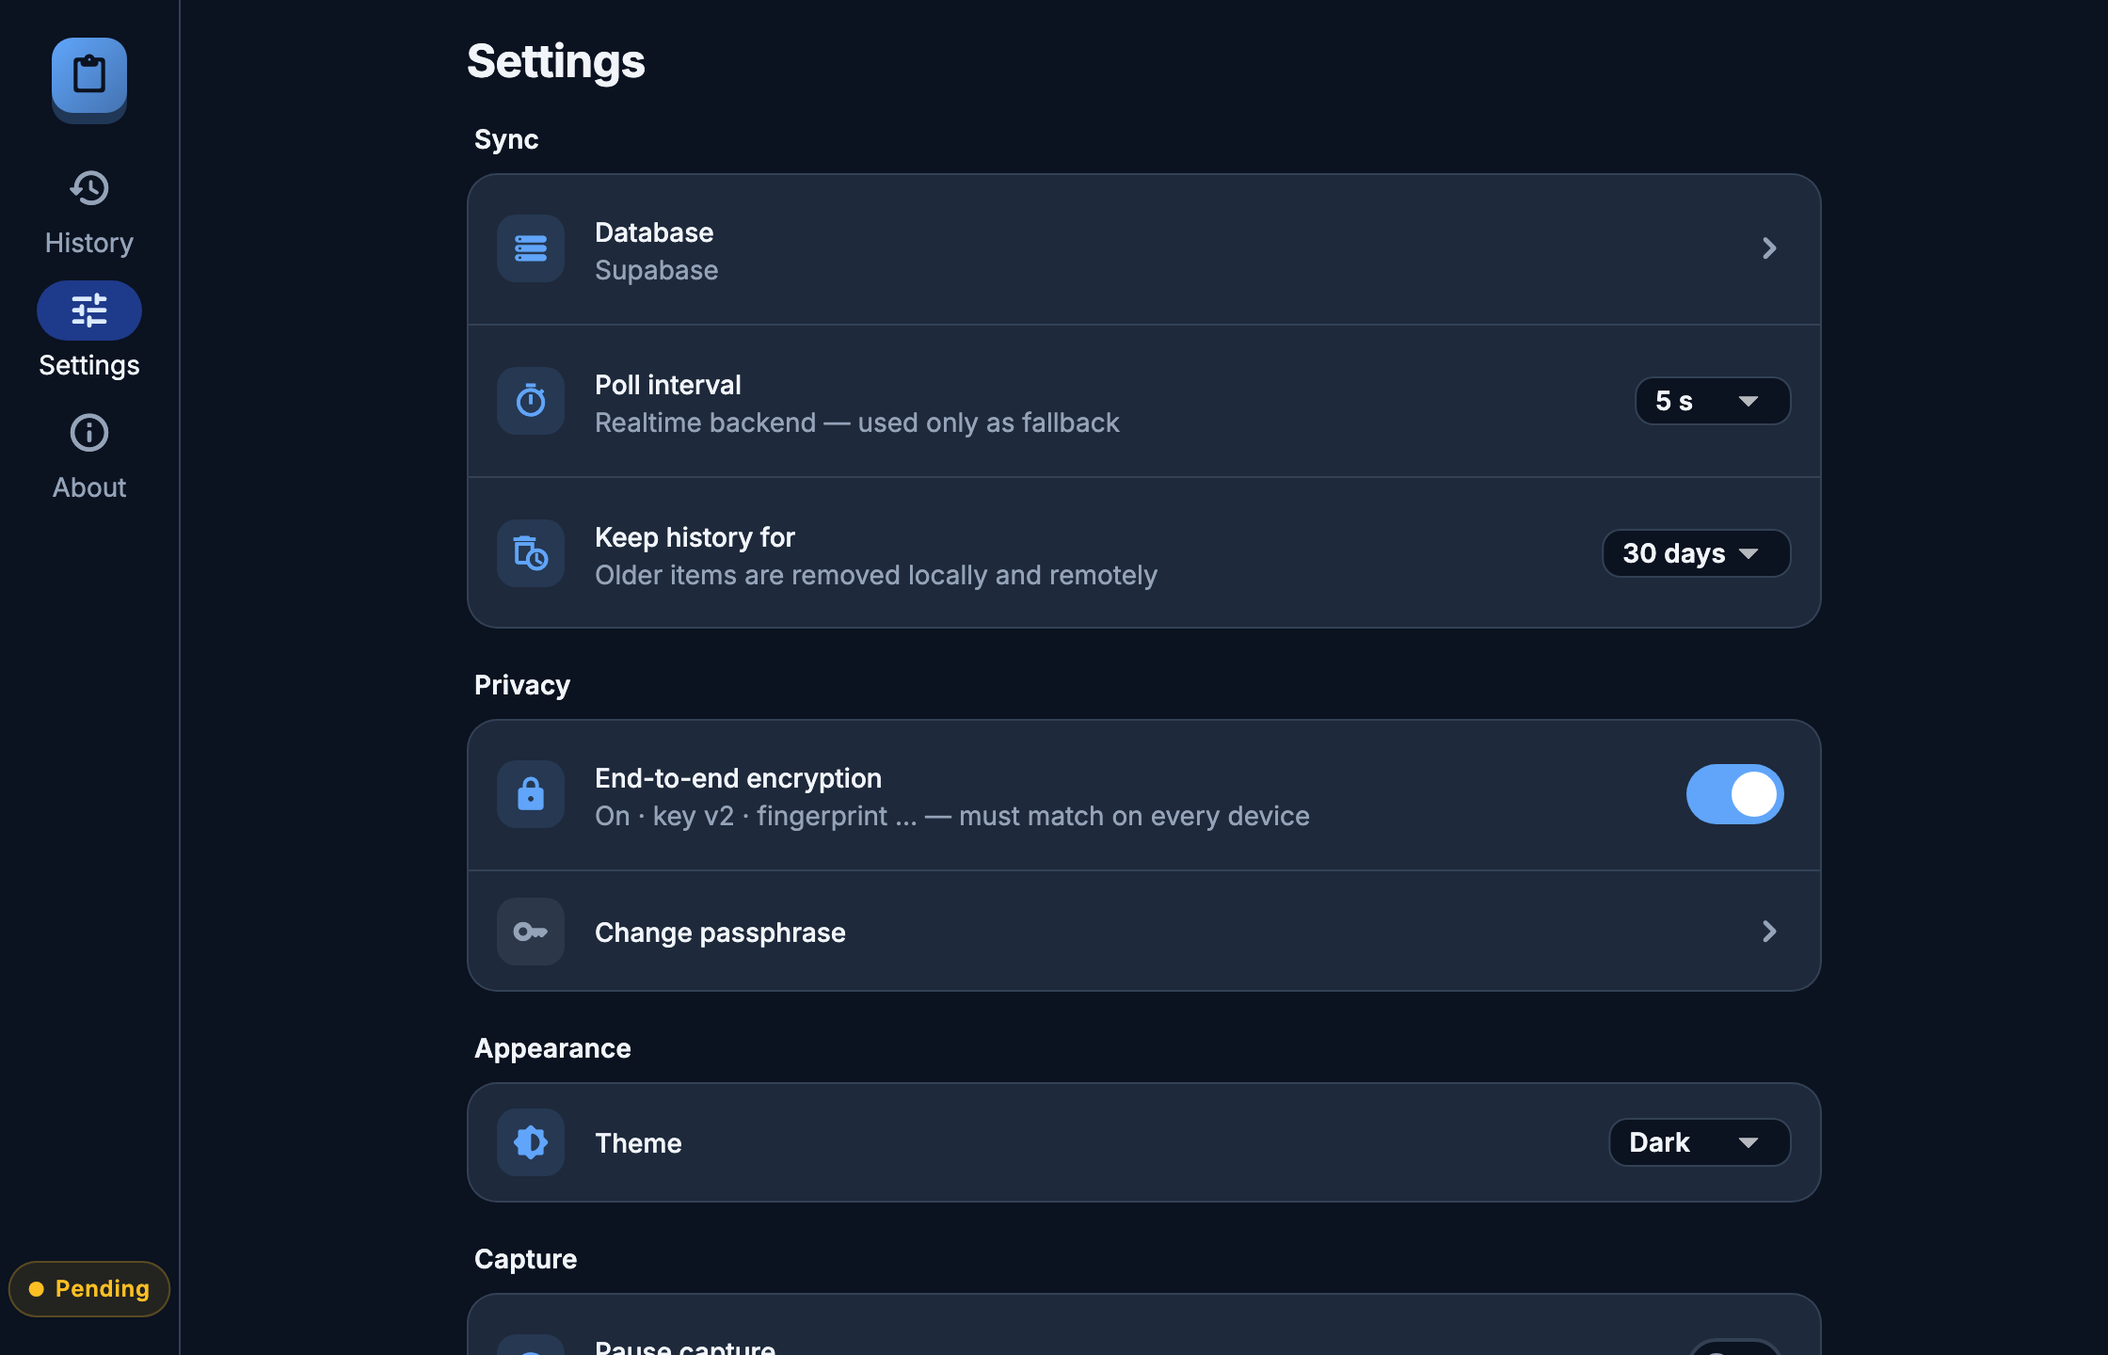
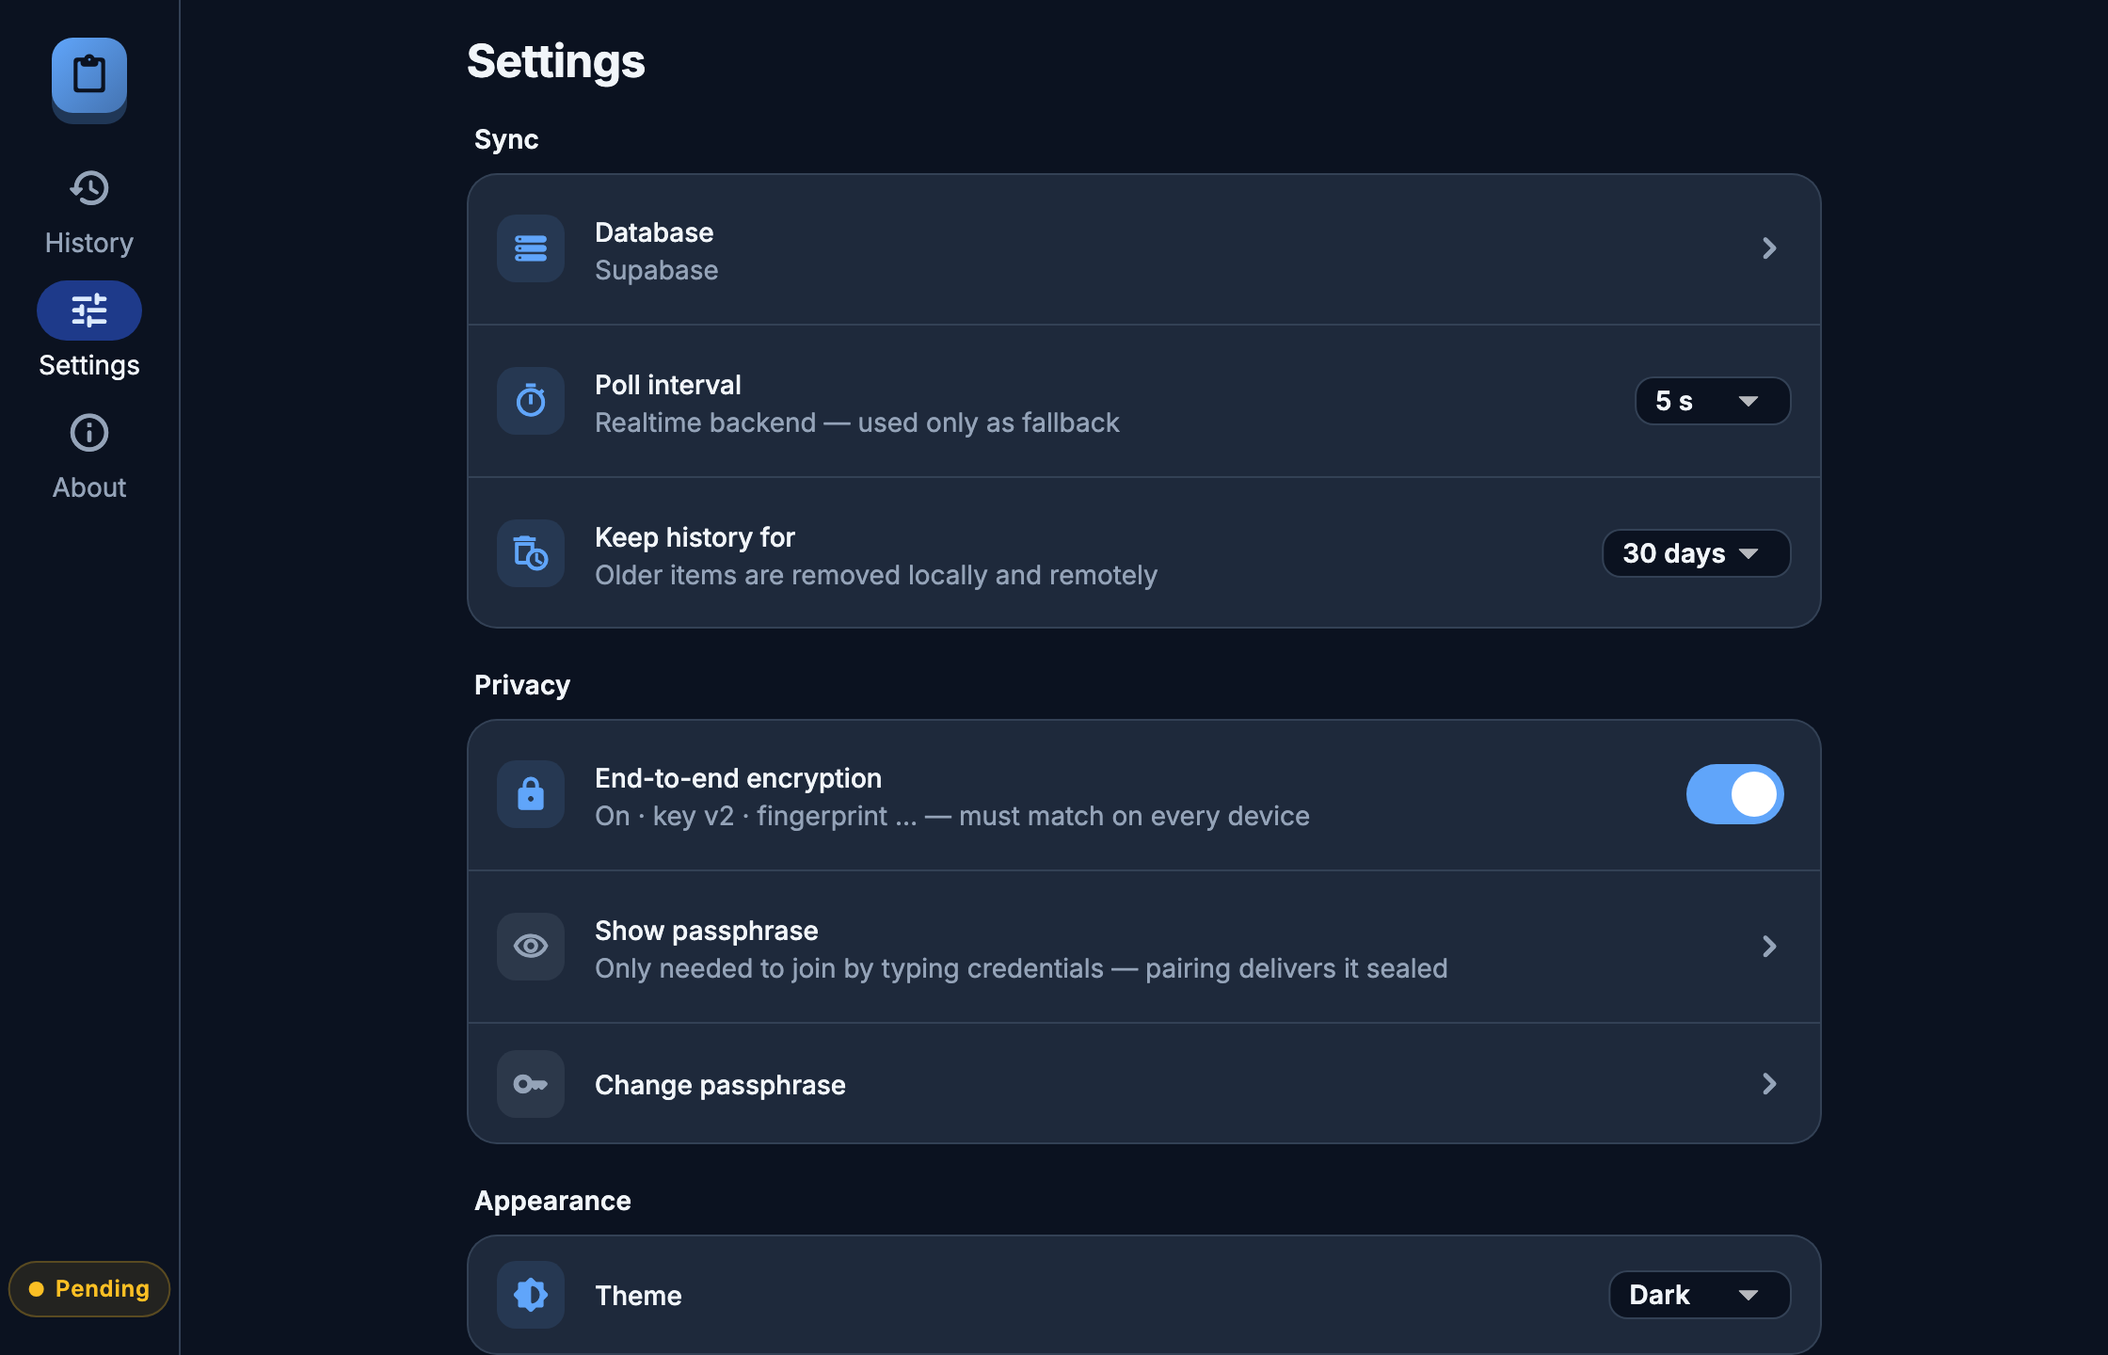
feat(security): secure new groups by default; release 0.2.0
Choosing a database now generates a random passphrase, turns on
end-to-end encryption and secures the group with an admin key in one step
(switch on the database screen, on by default). Pairing shares the
passphrase sealed by default; Settings → Privacy → Show passphrase reveals
it for manual joins. Engine lifecycle operations are serialised so
overlapping restarts cannot spawn two engines.

Bump version to 0.2.0 and date the changelog entry.

Changed region(s): [[0.2188, 0.6562, 0.875, 1.0]]

diff --git a/apps/clipboard_sync/test/signed_group_test.dart b/apps/clipboard_sync/test/signed_group_test.dart
@@ -325,4 +325,81 @@ void main() {
       await host.dispose();
     },
   );
+
+  group('default security', _defaultSecurityTests);
+}
+
+void _defaultSecurityTests() {
+  test('secureNewGroup encrypts with a random passphrase and signs', () async {
+    final shared = MemoryStore();
+    final host = await _boot(_host.copyWith(encryptionEnabled: false), shared);
+    await host.sync.start();
+    expect(host.sync.isSignedGroup, isFalse);
+    await host.sync.secureNewGroup();
+    final s = host.c.read(settingsProvider);
+    expect(s.encryptionEnabled, isTrue);
+    final pass = await host.sync.revealPassphrase();
+    expect(pass, isNotNull);
+    expect(pass!.length, greaterThanOrEqualTo(40), reason: '32 random bytes');
+    expect(host.sync.isSignedGroup, isTrue);
+    expect(host.sync.isAdmin, isTrue);
+    expect(host.status.selfVerified, isTrue);
+    expect(host.status.keyVersion, 1);
+    // Idempotent: a second call changes nothing.
+    final fp = host.sync.adminFingerprint;
+    await host.sync.secureNewGroup();
+    expect(host.sync.adminFingerprint, fp);
+    expect(await host.sync.revealPassphrase(), pass);
+    // Clips are sealed from the first push.
+    await host.c
+        .read(localStoreProvider)
+        .capture(_clip('secret', device: 'host-id'));
+    await host.sync.syncNow();
+    expect(shared.items.values.single.encrypted, isTrue);
+    expect(shared.items.values.single.isSigned, isTrue);
+    // A device pairing in gets the passphrase sealed and can read it.
+    final session = await host.sync.createPairing(
+      role: DeviceRole.full,
+      includePassphrase: true,
+    );
+    final joiner = await _boot(
+      const AppSettings(deviceId: 'j', deviceName: 'J', onboarded: true),
+      shared,
+    );
+    await joiner.sync.start();
+    await joiner.sync.joinFromPairing(
+      await PairingCodec.open(session.code, session.pin),
+    );
+    await Future<void>.delayed(const Duration(milliseconds: 300));
+    await joiner.sync.syncNow();
+    expect(await _history(joiner), ['secret']);
+    await joiner.dispose();
+    await host.dispose();
+  });
+
+  test('concurrent restarts never leave two engines running', () async {
+    final shared = MemoryStore();
+    final host = await _boot(_host.copyWith(encryptionEnabled: false), shared);
+    await host.sync.start();
+    // Fire several overlapping restarts (settings listener + explicit).
+    await Future.wait([
+      host.sync.restart(),
+      host.sync.restart(),
+      host.c
+          .read(settingsProvider.notifier)
+          .update(
+            (x) => x.copyWith(deviceName: 'Renamed'),
+          ),
+      host.sync.restart(),
+    ]);
+    await Future<void>.delayed(const Duration(milliseconds: 300));
+    expect(host.status.phase, SyncPhase.idle);
+    // Exactly one registration for this device and it reflects the rename.
+    expect(shared.devices.keys.where((k) => k == 'host-id').length, 1);
+    expect(shared.devices['host-id']!.name, 'Renamed');
+    // One heartbeat per membership check: a further sync does not duplicate.
+    await host.sync.syncNow();
+    expect(host.sync.knownDevices.length, 1);
+    await host.dispose();
+  });
 }

diff --git a/apps/clipboard_sync/lib/features/sync/sync_controller.dart b/apps/clipboard_sync/lib/features/sync/sync_controller.dart
@@ -137,6 +137,7 @@ class SyncController extends Notifier<SyncStatus> {
   StreamSubscription<ClipItem>? _captureSub;
   Timer? _retention;
   final _devicesOut = StreamController<List<Device>>.broadcast();
+  Future<void> _lifecycle = Future.value();
   DeviceKeys? _identity;
   AdminKey? _adminKey;
   String? _trustedAdminPub;
@@ -215,12 +216,21 @@ class SyncController extends Notifier<SyncStatus> {
   /// This device's signing-key fingerprint, or `null` before first start.
   String? get deviceFingerprint => _identity?.fingerprint;
 
+  /// Runs [op] after every earlier lifecycle operation finished, so two
+  /// restarts (settings listener + an explicit call) never interleave and
+  /// spawn two engines.
+  Future<void> _serial(Future<void> Function() op) {
+    final next = _lifecycle.catchError((_) {}).then((_) => op());
+    _lifecycle = next;
+    return next;
+  }
+
   /// Starts sync, then clipboard capture, from current settings.
   Future<void> start() async {
     final s = ref.read(settingsProvider);
     // Engine first: a clipboard permission prompt on mobile must never
     // delay connecting to the backend.
-    await _startEngine(s);
+    await _serial(() => _startEngine(s));
     if (_clipboard == null) {
       final c = ClipboardService(
         deviceId: s.deviceId,
@@ -252,10 +262,11 @@ class SyncController extends Notifier<SyncStatus> {
   }
 
   /// Stops and starts the engine (settings changed).
-  Future<void> restart() async {
+  Future<void> restart() => _serial(() async {
     await _stopEngine();
+    if (!ref.mounted) return;
     await _startEngine(ref.read(settingsProvider));
-  }
+  });
 
   /// Push + pull now.
   Future<void> syncNow() async => _engine?.syncNow();
@@ -506,6 +517,29 @@ class SyncController extends Notifier<SyncStatus> {
     await _managed.secureGroup();
     log.i('group secured; admin key ${key.fingerprint}');
   }
+
+  /// Default protection for a group this device just created or joined by
+  /// typing credentials: turns on encryption with a fresh random passphrase
+  /// (other devices receive it sealed through pairing) and secures the
+  /// group with an admin key. No-op when the group is already signed.
+  Future<void> secureNewGroup() async {
+    final s = ref.read(settingsProvider);
+    if (!s.syncsRemotely) return;
+    final repo = ref.read(settingsRepositoryProvider);
+    if (repo.loadTrustedAdminPub(s.backendScope) != null) return;
+    if (!s.encryptionEnabled) {
+      final bytes = List<int>.generate(32, (_) => Random.secure().nextInt(256));
+      await repo.saveKeyring({1: base64UrlEncode(bytes)});
+      await ref
+          .read(settingsProvider.notifier)
+          .update((x) => x.copyWith(encryptionEnabled: true));
+    }
+    await secureGroup();
+  }
+
+  /// Newest passphrase (for showing it to the user on request).
+  Future<String?> revealPassphrase() =>
+      ref.read(settingsRepositoryProvider).loadPassphrase();
 
   /// Pins [adminPub] for the current group after the user compared the
   /// fingerprint with the admin device.

diff --git a/apps/clipboard_sync/lib/features/settings/backend_setup_page.dart b/apps/clipboard_sync/lib/features/settings/backend_setup_page.dart
@@ -30,6 +30,7 @@ class _BackendSetupPageState extends ConsumerState<BackendSetupPage> {
   ConnectionCheck? _conn;
   SchemaCheck? _schema;
   bool _busy = false;
+  bool _secure = true;
 
   @override
   void initState() {
@@ -78,6 +79,7 @@ class _BackendSetupPageState extends ConsumerState<BackendSetupPage> {
     if (previous != _backendId) {
       await ref.read(localStoreProvider).resetCursor();
     }
+    setState(() => _busy = true);
     await notifier.update(
       (s) => s.copyWith(
         backendId: _backendId,
@@ -85,7 +87,25 @@ class _BackendSetupPageState extends ConsumerState<BackendSetupPage> {
         onboarded: true,
       ),
     );
+    if (_secure && _backendId != 'memory') {
+      try {
+        await ref.read(syncControllerProvider.notifier).secureNewGroup();
+      } catch (e) {
+        if (mounted) {
+          ScaffoldMessenger.of(context)
+            ..clearSnackBars()
+            ..showSnackBar(
+              SnackBar(
+                content: Text(
+                  'Saved, but the group could not be secured yet: ${redactSecrets('$e')}. Use Settings → Devices → Secure this group once connected.',
+                ),
+              ),
+            );
+        }
+      }
+    }
     if (!mounted) return;
+    setState(() => _busy = false);
     if (widget.onboarding) {
       context.go('/');
     } else {
@@ -208,6 +228,21 @@ class _BackendSetupPageState extends ConsumerState<BackendSetupPage> {
                       : 'Missing: ${_schema!.missing.join(', ')}\n${_schema!.hint ?? ''}',
                 ),
               ],
+            ],
+            if (descriptor.id != 'memory') ...[
+              const SizedBox(height: 12),
+              Card(
+                child: SwitchRow(
+                  key: const ValueKey('secure-new-group'),
+                  icon: Icons.verified_user_rounded,
+                  title: 'Encrypt and sign this group',
+                  subtitle: _secure
+                      ? 'Recommended. A random passphrase is generated and this device becomes the admin; other devices receive the key through pairing. Turn off only to join a group by typing a passphrase.'
+                      : 'Off — clips are stored readable by the database and anyone with its credentials can pose as a device.',
+                  value: _secure,
+                  onChanged: (v) => setState(() => _secure = v),
+                ),
+              ),
             ],
             const SizedBox(height: 24),
             FilledButton.icon(

diff --git a/apps/clipboard_sync/lib/features/settings/settings_page.dart b/apps/clipboard_sync/lib/features/settings/settings_page.dart
@@ -364,6 +364,51 @@ class _EncryptionRowState extends ConsumerState<_EncryptionRow> {
     if (mounted) setState(() => _fingerprint = fp);
   }
 
+  Future<void> _reveal() async {
+    final ok = await showDialog<bool>(
+      context: context,
+      builder: (ctx) => AlertDialog(
+        title: const Text('Show the passphrase?'),
+        content: const Text(
+          'Anyone who sees it can read your synced history. Make sure nobody is watching the screen.',
+        ),
+        actions: [
+          TextButton(
+            onPressed: () => Navigator.pop(ctx, false),
+            child: const Text('Cancel'),
+          ),
+          FilledButton(
+            onPressed: () => Navigator.pop(ctx, true),
+            child: const Text('Show'),
+          ),
+        ],
+      ),
+    );
+    if (ok != true || !mounted) return;
+    final pass = await ref
+        .read(syncControllerProvider.notifier)
+        .revealPassphrase();
+    if (!mounted) return;
+    await showDialog<void>(
+      context: context,
+      builder: (ctx) => AlertDialog(
+        title: const Text('Passphrase'),
+        content: SelectableText(
+          pass ?? '(none)',
+          style: Theme.of(ctx).textTheme.bodyLarge?.copyWith(
+            fontFamily: 'monospace',
+          ),
+        ),
+        actions: [
+          FilledButton(
+            onPressed: () => Navigator.pop(ctx),
+            child: const Text('Done'),
+          ),
+        ],
+      ),
+    );
+  }
+
   Future<void> _toggle(bool enable) async {
     final repo = ref.read(settingsRepositoryProvider);
     final notifier = ref.read(settingsProvider.notifier);
@@ -419,6 +464,15 @@ class _EncryptionRowState extends ConsumerState<_EncryptionRow> {
           onChanged: _toggle,
         ),
         if (s.encryptionEnabled) ...[
+          const Divider(),
+          SettingRow(
+            icon: Icons.visibility_outlined,
+            title: 'Show passphrase',
+            subtitle:
+                'Only needed to join by typing credentials — pairing delivers it sealed',
+            tint: c.muted,
+            onTap: _reveal,
+          ),
           const Divider(),
           SettingRow(
             icon: Icons.key_rounded,

diff --git a/apps/clipboard_sync/lib/features/devices/pair_page.dart b/apps/clipboard_sync/lib/features/devices/pair_page.dart
@@ -25,7 +25,7 @@ class PairPage extends ConsumerStatefulWidget {
 class _PairPageState extends ConsumerState<PairPage> {
   DeviceRole _role = DeviceRole.full;
   Duration? _access;
-  bool _includePassphrase = false;
+  late bool _includePassphrase = ref.read(settingsProvider).encryptionEnabled;
   bool _grantAdmin = false;
   bool _busy = false;
   PairingSession? _session;

diff --git a/CHANGELOG.md b/CHANGELOG.md
@@ -6,9 +6,12 @@ All notable changes to this project are documented here. Format follows
 
 ## [Unreleased]
 
+## [0.2.0] - 2026-09-11
+
 ### Added
-- **Device pairing**: Settings → Devices → *Add a device* shows a QR code (or a copyable code) plus an 8-digit PIN; the other device scans or pastes it under *Join another group* (also offered on the welcome screen). The code carries the database settings encrypted with the PIN (Argon2id → AES-256-GCM), is valid for 5 minutes and is never recorded in clipboard history. The host chooses the new device's role and access duration and can include the E2E passphrase (off by default).
-- **Device management**: list every device with presence, block / unblock, remove, forget, change role (*Send & receive*, *Send only*, *Receive only*) and set temporary access. A blocked, removed or expired device stops itself, deletes its credentials and passphrase, and tells the user. Enforcement is cooperative — see `docs/devices.md`.
+- **Secure by default**: choosing a database now encrypts the group with a random passphrase and signs it with an admin key (switch on the database screen); other devices receive the passphrase sealed through pairing. *Settings → Privacy → Show passphrase* reveals it for manual joins.
+- **Device pairing**: Settings → Devices → *Add a device* shows a QR code (or a copyable code) plus an 8-digit PIN; the other device scans or pastes it under *Join another group* (also offered on the welcome screen). The code carries the database settings encrypted with the PIN (Argon2id → AES-256-GCM), is valid for 5 minutes and is never recorded in clipboard history. The host chooses the new device's role and access duration and whether to share the passphrase (delivered sealed to the new device, never inside the code).
+- **Device management**: list every device with presence, block / unblock, remove, forget, change role (*Send & receive*, *Send only*, *Receive only*) and set temporary access. A blocked, removed or expired device stops itself, deletes its credentials, keys and passphrases, and tells the user. In a signed group these decisions are verified cryptographically — see `docs/devices.md`.
 - **Send to…** in the history menu pushes a clip to one device only (`target_device_id`).
 - **Capture filters**: *Pause capture* (also in the tray menu), *Skip password-manager content* (macOS concealed/transient pasteboard types, Windows `ExcludeClipboardContentFromMonitorProcessing`, Android 13+ `EXTRA_IS_SENSITIVE`; on by default) and *Skip keys and tokens* (credential-pattern heuristic).
 - **Signed groups**: every device has an Ed25519 / X25519 identity; every clip is signed and verified against the sender's admin-signed key; membership changes (status, role, expiry, keys, admin flag, key envelope) are signed by a group admin key with rollback protection. Holding the database credentials is no longer enough to pose as a device, lift a block, or take over the group. *Settings → Devices → Secure this group* upgrades existing groups; members confirm the admin fingerprint once.
@@ -39,5 +42,6 @@ All notable changes to this project are documented here. Format follows
 - Android app data excluded from cloud backup and device transfer.
 - Repository gates: gitleaks + pre-commit locally, full-history secret scan in CI, SHA-pinned actions, branch and tag rulesets.
 
-[Unreleased]: https://github.com/appfide/clipboard-sync/compare/v0.1.0...HEAD
+[Unreleased]: https://github.com/appfide/clipboard-sync/compare/v0.2.0...HEAD
+[0.2.0]: https://github.com/appfide/clipboard-sync/compare/v0.1.0...v0.2.0
 [0.1.0]: https://github.com/appfide/clipboard-sync/releases/tag/v0.1.0

diff --git a/docs/devices.md b/docs/devices.md
@@ -82,7 +82,14 @@ database itself cannot tell them apart. Clipboard Sync therefore enforces
 membership cryptographically, on every device, instead of relying on the
 database:
 
-### Signed groups (recommended — the default for groups created with 0.2+)
+### Signed groups (the default for groups created with 0.2+)
+
+Choosing a database with *Encrypt and sign this group* on (the default)
+generates a random passphrase, turns on end-to-end encryption and makes that
+device the admin in one step. Nothing has to be typed on other devices: they
+receive the passphrase sealed through pairing. *Settings → Privacy → Show
+passphrase* reveals it if a device must join by typing the database
+credentials instead.
 
 - Every device has an **identity**: an Ed25519 signing key and an X25519
   key. The private halves live only in the OS credential store.
